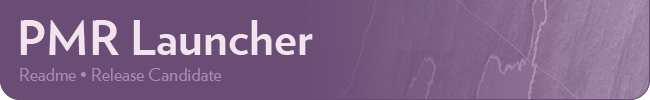
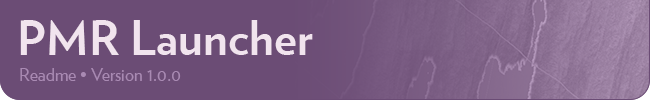
Bump version to 1.0.0
Six months without critical bugs + new plugin capability = ready for first "true" release

Changed region(s): [[0.1231, 0.66, 0.3385, 0.81]]

diff --git a/Readme.html b/Readme.html
@@ -1,7 +1,7 @@
 <!DOCTYPE html>
 <html lang="en">
 	<head>
-		<title>Readme &bull; PMR Launcher Release Candidate 4</title>
+		<title>Readme &bull; PMR Launcher 1.0.0</title>
 		<style type="text/css">
 		<!--
 
@@ -73,7 +73,7 @@
 	</head>
 	<body>
 		<div class="wrapper">
-			<h1>PMR Launcher Readme for Release Candidate 4</h1>
+			<h1>PMR Launcher Readme for Version 1.0.0</h1>
 			<p>Thank you for joining Poppy Multiplayer Regions! This Readme will help you get started with the PMR Launcher. With just a few steps, you can connect to and play in multiplayer regions.</p>
 			
 			<h2>Getting started</h2>
@@ -136,7 +136,7 @@
 			<h2>Updates and more</h2>
 			<p>To see what&rsquo;s new with Poppy Multiplayer Regions, visit our official homepage at <a href="http://getpmr.com/">getpmr.com</a>
 			<h2>Credits</h2>
-			<p>This Readme was prepared for the PMR Launcher Release Candidate 4.</p>
+			<p>This Readme was prepared for the PMR Launcher Release Candidate 1.0.0.</p>
 			<p>The Poppy Multiplayer Regions server and launcher are developed by <a href="http://j5.io/">Julian Cizmic.</a></p>
 		</div>
 	</body>

diff --git a/pmrclient.py b/pmrclient.py
@@ -14,7 +14,7 @@ import zipfile
 import hashlib
 
 s = requests.Session()
-s.headers["User-Agent"] = "PMRClient RC4"
+s.headers["User-Agent"] = "PMRClient 1.0.0"
 
 stagedsaves = []
 
@@ -769,7 +769,7 @@ class PMRClientRegionDownloader(wx.Dialog):
 		if not os.path.exists(refreshregiondir):
 			os.makedirs(refreshregiondir)
 		cfgfile = open(os.path.join(refreshregiondir,"region.ini"),'w')
-		cfgfile.write("; Generated by PMR Client Release Candidate\n")
+		cfgfile.write("; Generated by PMR Client 1.0.0\n")
 		AuxConfig.add_section("Regional Settings")
 		AuxConfig.set("Regional Settings", "Name", "Load this region to refresh '" + self.region['name'] + "'")
 		AuxConfig.set("Regional Settings", "Terrain type", 0)

diff --git a/setup.py b/setup.py
@@ -33,7 +33,7 @@ setup(
 		"name": "PMR Launcher",
 		"author": "Poppy Multiplayer Regions",
         "description": "PMR Launcher",
-		"version": "0.9.0"
+		"version": "1.0.0"
 	}],
 	options={
 		"py2exe": {
